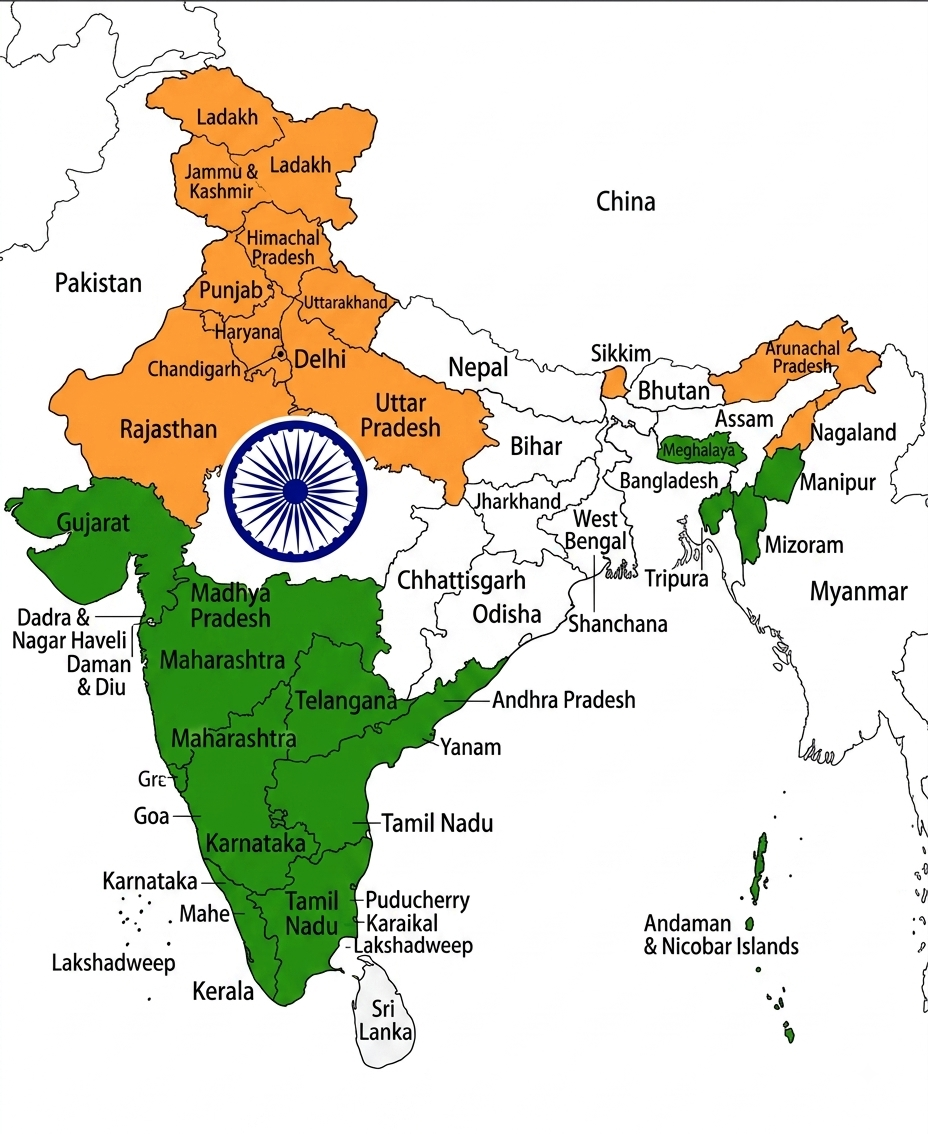
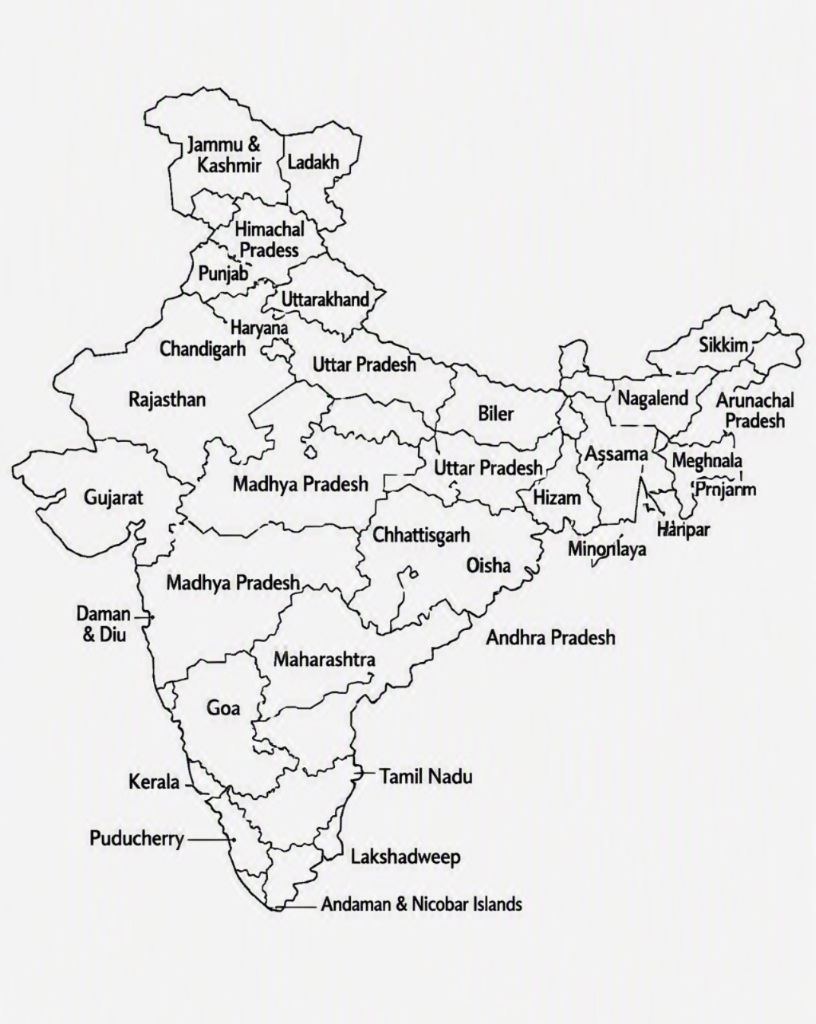
feat: use clean outline India map; on submission turns directly to flag colors with chakra; on 2026 completion show chakra and click to unlock website button

diff --git a/src/components/LandingHero.jsx b/src/components/LandingHero.jsx
@@ -265,26 +265,31 @@ export default function LandingHero({
                   alt="India Map"
                   className="absolute inset-0 w-full h-full object-contain pointer-events-none transition-all duration-700"
                   style={{
-                    filter: (isComplete || isBlooming)
-                      ? 'brightness(1.28) saturate(2.4) drop-shadow(0 0 35px rgba(245,158,11,0.7))'
-                      : 'brightness(0.96) saturate(1.0)',
+                    filter: isBlooming
+                      ? 'brightness(1.15) contrast(1.1) drop-shadow(0 0 35px rgba(245,158,11,0.7))'
+                      : isComplete
+                      ? 'brightness(1.05) drop-shadow(0 0 25px rgba(59,130,246,0.5))'
+                      : 'brightness(1.0) contrast(1.05)',
                   }}
                 />
 
-                {/* FULL MAP TRICOLOR BLOOM (Triggered on Submit & 2026 Milestone) */}
-                {(isComplete || isBlooming) && (
-                  <div className="absolute inset-0 pointer-events-none transition-opacity duration-700 opacity-90">
-                    <div className="absolute top-0 inset-x-0 h-1/3 bg-gradient-to-b from-orange-500/50 via-amber-400/30 to-transparent" />
-                    <div className="absolute top-1/3 inset-x-0 h-1/3 bg-gradient-to-b from-white/40 via-white/20 to-transparent" />
-                    <div className="absolute bottom-0 inset-x-0 h-1/3 bg-gradient-to-t from-green-600/50 via-emerald-400/30 to-transparent" />
+                {/* FOR EVERY SUBMISSION: DIRECTLY TURNS TO INDIA FLAG COLOR WITH CHAKRA */}
+                {isBlooming && (
+                  <div className="absolute inset-0 pointer-events-none transition-opacity duration-500 opacity-95">
+                    {/* Top 33%: Saffron / Kesari */}
+                    <div className="absolute top-0 inset-x-0 h-[34%] bg-gradient-to-b from-[#FF9933]/70 via-[#FF9933]/50 to-[#FF9933]/30" />
+                    {/* Middle 33%: Pure White Band */}
+                    <div className="absolute top-[34%] inset-x-0 h-[33%] bg-gradient-to-b from-white/60 via-white/40 to-white/60" />
+                    {/* Bottom 33%: India Green */}
+                    <div className="absolute bottom-0 inset-x-0 h-[33%] bg-gradient-to-t from-[#138808]/70 via-[#138808]/50 to-[#138808]/30" />
                   </div>
                 )}
 
                 {/* Blooming State Floating Live Celebration Pill */}
                 {isBlooming && bloomingStateName && (
-                  <div className="absolute top-4 inset-x-0 mx-auto w-fit z-50 px-4 py-2 rounded-full bg-gray-900/90 border border-amber-400/60 text-white text-xs font-black shadow-2xl flex items-center gap-2 animate-bounce">
+                  <div className="absolute top-3 inset-x-0 mx-auto w-fit z-50 px-4 py-2 rounded-full bg-gray-900/95 border border-amber-400 text-white text-xs font-black shadow-2xl flex items-center gap-2 animate-bounce">
                     <span className="w-2.5 h-2.5 rounded-full bg-amber-400 animate-ping" />
-                    <span>🇮🇳 {bloomingStateName.toUpperCase()} NODE ACTIVATED & LIGHTING UP INDIA!</span>
+                    <span>🇮🇳 {bloomingStateName.toUpperCase()} JOINED — INDIA LIGHTS UP IN TRICOLOR!</span>
                   </div>
                 )}
 
@@ -301,7 +306,7 @@ export default function LandingHero({
                       const isHovered = hoveredState === st.id;
                       const wasJustClicked = justClickedState === st.id;
                       const intensity = Math.min(1, Math.log((st.voices || 0) + 1) / Math.log(maxVoices + 1));
-                      const glowRadius = isComplete ? 32 : wasJustClicked ? 45 : isHovered ? 30 : 12 + intensity * 16;
+                      const glowRadius = isBlooming ? 35 : isComplete ? 28 : wasJustClicked ? 45 : isHovered ? 30 : 10 + intensity * 14;
 
                       return (
                         <circle
@@ -309,7 +314,7 @@ export default function LandingHero({
                           cx={st.nodePos.x}
                           cy={st.nodePos.y}
                           r={glowRadius}
-                          fill={`rgba(${zone.rgb}, ${isComplete ? 0.35 : wasJustClicked ? 0.6 : isHovered ? 0.4 : 0.15})`}
+                          fill={`rgba(${zone.rgb}, ${isBlooming ? 0.45 : isComplete ? 0.3 : wasJustClicked ? 0.6 : isHovered ? 0.4 : 0.12})`}
                           style={{
                             filter: 'blur(6px)',
                             transition: 'all 0.3s ease-out',
@@ -323,7 +328,7 @@ export default function LandingHero({
                   <g className="map-labels">
                     {statesData.map((st) => {
                       const isHovered = hoveredState === st.id;
-                      const isLarge = st.voices >= 60 || isHovered;
+                      const isLarge = st.voices >= 5 || isHovered;
                       if (!isLarge && st.nodePos.y < 100) return null;
 
                       return (
@@ -353,8 +358,8 @@ export default function LandingHero({
                       const isHovered = hoveredState === st.id;
                       const wasJustClicked = justClickedState === st.id;
                       const intensity = Math.min(1, Math.log((st.voices || 0) + 1) / Math.log(maxVoices + 1));
-                      const outerRadius = isComplete ? 7.5 : wasJustClicked ? 12 : isHovered ? 9 : 3.5 + intensity * 4.5;
-                      const coreRadius = isComplete ? 3.5 : isHovered ? 3.8 : 2.2;
+                      const outerRadius = isBlooming ? 8 : isComplete ? 6.5 : wasJustClicked ? 12 : isHovered ? 9 : 3.5 + intensity * 4.5;
+                      const coreRadius = isHovered ? 3.8 : 2.2;
 
                       return (
                         <g
@@ -364,7 +369,7 @@ export default function LandingHero({
                           onMouseLeave={() => setHoveredState(null)}
                           onClick={() => handleStateClick(st)}
                         >
-                          {/* Invisible Large Hit Target */}
+                          {/* Hit Target */}
                           <circle
                             cx={st.nodePos.x}
                             cy={st.nodePos.y}
@@ -378,7 +383,7 @@ export default function LandingHero({
                             cy={st.nodePos.y}
                             r={outerRadius}
                             fill={zone.hex}
-                            fillOpacity={isComplete ? 0.75 : wasJustClicked ? 0.9 : isHovered ? 0.8 : 0.45}
+                            fillOpacity={isBlooming ? 0.85 : isComplete ? 0.75 : wasJustClicked ? 0.9 : isHovered ? 0.8 : 0.45}
                             stroke={zone.ring}
                             strokeWidth={isHovered ? '1.8' : '1.2'}
                             className="transition-all duration-300"
@@ -395,7 +400,7 @@ export default function LandingHero({
                           />
 
                           {/* Animated Ripple for active states */}
-                          {(wasJustClicked || isHovered || isComplete) && (
+                          {(wasJustClicked || isHovered || isBlooming) && (
                             <circle
                               cx={st.nodePos.x}
                               cy={st.nodePos.y}
@@ -412,59 +417,92 @@ export default function LandingHero({
                   </g>
 
                   {/* ═══════════════════════════════════════════════════════════════════
-                      2,026 MILESTONE REACHED: SINGLE CLICK TO UNLOCK BUTTON
+                      ASHOKA CHAKRA IN CENTER:
+                      - Rotates on submission (isBlooming) with tricolor flag colors
+                      - On 2,026 completion (isComplete): Shows Chakra with "CLICK TO UNLOCK WEBSITE" under it
                      ═══════════════════════════════════════════════════════════════════ */}
-                  {isComplete && (
+                  {(isBlooming || isComplete) && (
                     <g
-                      className="cursor-pointer group/unlock transition-all duration-500"
+                      className="cursor-pointer group/chakra transition-all duration-500"
                       onClick={onTriggerCinematic}
                     >
-                      {/* Pulsing Energy Aura */}
+                      {/* Ambient Energy Glow Halo */}
                       <circle
-                        cx="245"
-                        cy="310"
-                        r="55"
-                        fill="rgba(234, 88, 12, 0.25)"
-                        style={{ filter: 'blur(15px)' }}
+                        cx="270"
+                        cy="300"
+                        r={isComplete ? "55" : "42"}
+                        fill={isBlooming ? "rgba(245, 158, 11, 0.35)" : "rgba(59, 130, 246, 0.25)"}
+                        style={{ filter: 'blur(14px)' }}
                         className="animate-pulse"
                       />
 
-                      {/* Expanding Ripple Ring */}
-                      <circle
-                        cx="245"
-                        cy="310"
-                        r="45"
-                        fill="none"
-                        stroke="#f59e0b"
-                        strokeWidth="2"
-                        className="animate-ping opacity-75"
-                      />
-
-                      {/* Interactive Click to Unlock Badge */}
-                      <g className="cursor-pointer select-none">
-                        <rect
-                          x="135"
-                          y="295"
-                          width="220"
-                          height="32"
-                          rx="16"
-                          fill="#1e3a8a"
-                          stroke="#fbbf24"
-                          strokeWidth="1.5"
-                          className="group-hover/unlock:fill-red-600 transition shadow-xl"
-                        />
-                        <text
-                          x="245"
-                          y="316"
-                          textAnchor="middle"
-                          fontSize="11"
-                          fontWeight="900"
+                      {/* Rotating Ashoka Chakra */}
+                      <g
+                        style={{
+                          transformOrigin: '270px 300px',
+                          animation: 'spinSmooth 8s linear infinite',
+                        }}
+                      >
+                        {/* Outer Rim */}
+                        <circle
+                          cx="270"
+                          cy="300"
+                          r="32"
                           fill="#ffffff"
-                          letterSpacing="0.6"
-                        >
-                          ☸ CLICK TO UNLOCK 2026
-                        </text>
+                          stroke="#1e3a8a"
+                          strokeWidth="2.8"
+                          className="shadow-xl"
+                        />
+                        {/* Hub */}
+                        <circle
+                          cx="270"
+                          cy="300"
+                          r="6.5"
+                          fill="#1e3a8a"
+                        />
+
+                        {/* 24 Spokes */}
+                        {spokes.map((angle) => (
+                          <line
+                            key={`chakra-spoke-${angle}`}
+                            x1="270"
+                            y1="300"
+                            x2={270 + 26 * Math.cos((angle * Math.PI) / 180)}
+                            y2={300 + 26 * Math.sin((angle * Math.PI) / 180)}
+                            stroke="#1e3a8a"
+                            strokeWidth="1.5"
+                            strokeLinecap="round"
+                          />
+                        ))}
                       </g>
+
+                      {/* ON LAST SUBMISSION (2026): "CLICK TO UNLOCK WEBSITE" BUTTON UNDER CHAKRA */}
+                      {isComplete && (
+                        <g className="cursor-pointer select-none">
+                          <rect
+                            x="150"
+                            y="348"
+                            width="240"
+                            height="34"
+                            rx="17"
+                            fill="#dc2626"
+                            stroke="#fbbf24"
+                            strokeWidth="2"
+                            className="group-hover/chakra:fill-red-700 transition shadow-2xl"
+                          />
+                          <text
+                            x="270"
+                            y="370"
+                            textAnchor="middle"
+                            fontSize="11"
+                            fontWeight="900"
+                            fill="#ffffff"
+                            letterSpacing="0.8"
+                          >
+                            ☸ CLICK TO UNLOCK WEBSITE
+                          </text>
+                        </g>
+                      )}
                     </g>
                   )}
                 </svg>
